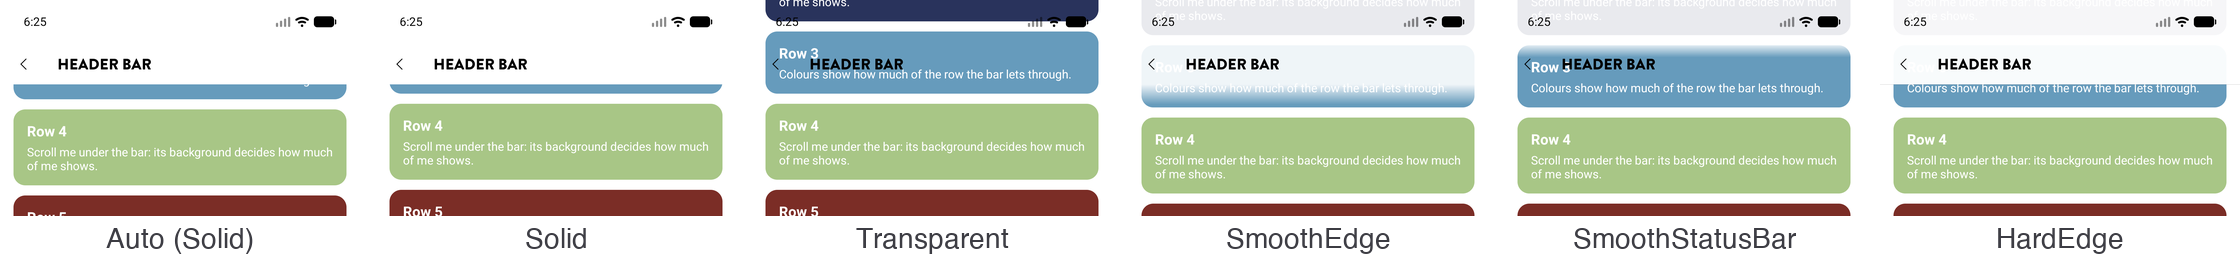
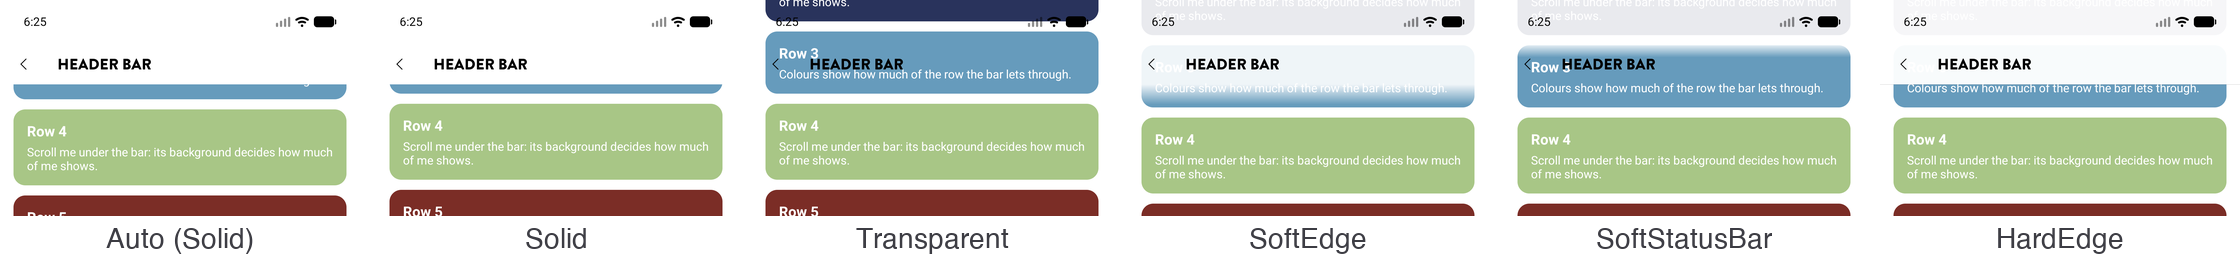
Header bar: SmoothEdge and SmoothStatusBar are SoftEdge and SoftStatusBar

Changed region(s): [[0.6875, 0.8485, 0.8125, 0.9394], [0.5312, 0.8485, 0.625, 0.9697]]

diff --git a/samples/MauiSpineSampleApp/Pages/HeaderBar/HeaderBarPage.ViewModel.cs b/samples/MauiSpineSampleApp/Pages/HeaderBar/HeaderBarPage.ViewModel.cs
@@ -35,11 +35,11 @@ public partial class HeaderBarPageViewModel : ViewModelBase
 
         _background = new("Background",
         [
-            new("Auto", "What the platform's own bar does: on iOS the navigation bar's default when a list fills the page (Smooth on iOS 26, Hard from iOS 27), Transparent under Overlay, Solid otherwise. The default; pick another value only to get a look on purpose.", () => HeaderBarBackground = HeaderBarBackground.Auto),
+            new("Auto", "What the platform's own bar does: on iOS the navigation bar's default when a list fills the page (Soft on iOS 26, Hard from iOS 27), Transparent under Overlay, Solid otherwise. The default; pick another value only to get a look on purpose.", () => HeaderBarBackground = HeaderBarBackground.Auto),
             new("Solid", "The page's colour: content under the bar is hidden. A classic bar, or a photo that gives way to a plain bar once it scrolls.", () => HeaderBarBackground = HeaderBarBackground.Solid),
             new("Transparent", "Nothing: content shows through the bar, and the title floats over it. A photo or a map under an Overlay bar.", () => HeaderBarBackground = HeaderBarBackground.Transparent),
-            new("Smooth", "SmoothEdge: content fades and blurs into the whole header, the navigation bar's default on iOS 26. A fading band on Android and Windows.", () => HeaderBarBackground = HeaderBarBackground.SmoothEdge),
-            new("Status bar", "SmoothStatusBar: the same soft fade behind the status bar only; rows stay sharp behind the title and the actions. For a bar that should stay light.", () => HeaderBarBackground = HeaderBarBackground.SmoothStatusBar),
+            new("Soft", "SoftEdge: content fades and blurs into the whole header, the navigation bar's default on iOS 26. A fading band on Android and Windows.", () => HeaderBarBackground = HeaderBarBackground.SoftEdge),
+            new("Status bar", "SoftStatusBar: the same soft fade behind the status bar only; rows stay sharp behind the title and the actions. For a bar that should stay light.", () => HeaderBarBackground = HeaderBarBackground.SoftStatusBar),
             new("Hard", "HardEdge: a frosted, nearly opaque band with a clear bottom edge, the navigation bar's default from iOS 27. A nearly opaque band with a hairline on Android and Windows.", () => HeaderBarBackground = HeaderBarBackground.HardEdge),
         ]);
 

diff --git a/src/Plugin.Maui.Spine/Core/HeaderBarMode.cs b/src/Plugin.Maui.Spine/Core/HeaderBarMode.cs
@@ -32,7 +32,7 @@ public enum HeaderBarBackground
 {
     /// <summary>
     /// What the platform's own bar does. On iOS and Mac Catalyst that is the navigation bar's default:
-    /// <see cref="SmoothEdge"/> on 26 and <see cref="HardEdge"/> from 27, for a region or tab page
+    /// <see cref="SoftEdge"/> on 26 and <see cref="HardEdge"/> from 27, for a region or tab page
     /// whose scroll view fills it from the top (a page with fixed content above its list gets
     /// <see cref="Solid"/>, so that content never sits under the bar). Everywhere else it is
     /// <see cref="Solid"/>. Under <see cref="HeaderBarMode.Overlay"/> it is
@@ -60,14 +60,14 @@ public enum HeaderBarBackground
     /// and Windows show a band in the page's colour, slightly see-through behind the bar and fading
     /// out below it. iOS and Mac Catalyst before 26, and Reduce Transparency, give <see cref="Solid"/>.
     /// </summary>
-    SmoothEdge,
+    SoftEdge,
 
     /// <summary>
-    /// <see cref="SmoothEdge"/> behind the status bar only: content fades out under the clock and the
+    /// <see cref="SoftEdge"/> behind the status bar only: content fades out under the clock and the
     /// icons, and stays sharp behind the title and the actions. Android and Windows show the band
     /// behind the status bar only.
     /// </summary>
-    SmoothStatusBar,
+    SoftStatusBar,
 
     /// <summary>
     /// UIKit's scroll edge effect with the hard style: a frosted, nearly opaque band that ends in a
@@ -81,7 +81,7 @@ internal static class HeaderBarBackgroundExtensions
 {
     /// <summary>Whether <paramref name="background"/> is one of the scroll edge values.</summary>
     public static bool IsScrollEdge(this HeaderBarBackground background) =>
-        background is HeaderBarBackground.SmoothEdge or HeaderBarBackground.SmoothStatusBar or HeaderBarBackground.HardEdge;
+        background is HeaderBarBackground.SoftEdge or HeaderBarBackground.SoftStatusBar or HeaderBarBackground.HardEdge;
 }
 
 /// <summary>The colour of the status bar's clock and icons while a page is shown.</summary>

diff --git a/src/Plugin.Maui.Spine/Presentation/PagePresenter.Apple.cs b/src/Plugin.Maui.Spine/Presentation/PagePresenter.Apple.cs
@@ -13,7 +13,7 @@ internal sealed partial class PagePresenter
     private View? _edgeSource;
     private UIScrollView? _edgeScrollView;
 
-    // The container a SmoothStatusBar effect is sized to: as tall as the status bar, holding a label,
+    // The container a SoftStatusBar effect is sized to: as tall as the status bar, holding a label,
     // because UIKit ignores a container with no labels, images or controls in it.
     private ContentView? _statusBarEdge;
 
@@ -35,13 +35,13 @@ internal sealed partial class PagePresenter
         if (_statusBarEdge is null)
             return;
 
-        _statusBarEdge.IsVisible = BarBackground is HeaderBarBackground.SmoothStatusBar && UsesSystemScrollEdge;
+        _statusBarEdge.IsVisible = BarBackground is HeaderBarBackground.SoftStatusBar && UsesSystemScrollEdge;
         _statusBarEdge.HeightRequest = _page?.SystemBarInsets.Top ?? 0;
     }
 
     /// <summary>The view the interaction goes on: the status-bar element, or the title row.</summary>
     private View EdgeContainerView =>
-        BarBackground is HeaderBarBackground.SmoothStatusBar && _statusBarEdge is not null ? _statusBarEdge : _titleBar;
+        BarBackground is HeaderBarBackground.SoftStatusBar && _statusBarEdge is not null ? _statusBarEdge : _titleBar;
 
     /// <summary>
     /// Tells the page's scroll view that the title row floats over its top edge, so UIKit draws

diff --git a/src/Plugin.Maui.Spine/Presentation/PagePresenter.cs b/src/Plugin.Maui.Spine/Presentation/PagePresenter.cs
@@ -232,7 +232,7 @@ internal sealed partial class PagePresenter : Grid
     /// <summary>Installs or removes UIKit's scroll edge effect for the page; iOS and Mac Catalyst 26 only.</summary>
     partial void UpdateSystemScrollEdge();
 
-    /// <summary>Adds the element a <see cref="HeaderBarBackground.SmoothStatusBar"/> effect is sized to; Apple platforms only.</summary>
+    /// <summary>Adds the element a <see cref="HeaderBarBackground.SoftStatusBar"/> effect is sized to; Apple platforms only.</summary>
     partial void AddStatusBarEdge();
 
     /// <summary>Shows that element, as tall as the status bar, while the page asks for it.</summary>
@@ -324,7 +324,7 @@ internal sealed partial class PagePresenter : Grid
                 ],
                 new Point(0, 0), new Point(0, 1));
         }
-        else if (BarBackground is HeaderBarBackground.SmoothStatusBar)
+        else if (BarBackground is HeaderBarBackground.SoftStatusBar)
         {
             // The soft stand-in behind the status bar only, fading out before the title row.
             var statusBar = _page?.SystemBarInsets.Top ?? 0;

diff --git a/src/Plugin.Maui.Spine/Extensions/HeaderBar.cs b/src/Plugin.Maui.Spine/Extensions/HeaderBar.cs
@@ -7,7 +7,7 @@ namespace Plugin.Maui.Spine.Extensions;
 /// <summary>
 /// Attached properties, set on the page, for a header that follows the page's scroll: a large title
 /// (<see cref="NavigableAttribute.LargeTitle"/>), or content scrolling under the bar with a
-/// <see cref="HeaderBarBackground.Transparent"/> or <see cref="HeaderBarBackground.SmoothEdge"/> background. Which view it follows, and how far that view scrolls
+/// <see cref="HeaderBarBackground.Transparent"/> or <see cref="HeaderBarBackground.SoftEdge"/> background. Which view it follows, and how far that view scrolls
 /// before a large title has collapsed.
 /// </summary>
 /// <example>

diff --git a/src/Plugin.Maui.Spine/Services/NavigableMeta.cs b/src/Plugin.Maui.Spine/Services/NavigableMeta.cs
@@ -132,7 +132,7 @@ internal static class NavigableMeta
     static HeaderBarBackground NavigationBarEdge =>
         OperatingSystem.IsIOSVersionAtLeast(27) || OperatingSystem.IsMacCatalystVersionAtLeast(27)
             ? HeaderBarBackground.HardEdge
-            : HeaderBarBackground.SmoothEdge;
+            : HeaderBarBackground.SoftEdge;
 
     static bool IsApple => OperatingSystem.IsIOS() || OperatingSystem.IsMacCatalyst();
 

diff --git a/docs/wiki/regions.md b/docs/wiki/regions.md
@@ -36,7 +36,7 @@ public partial class SettingsPage { public SettingsPage() => InitializeComponent
 | `SafeAreaEdges` | `SafeAreaEdges` | `All` | Which edges Spine pads for system bars. Exclude an edge to render edge-to-edge behind it — use `ViewModelBase.SafeAreaInsets` to offset content manually |
 | `HeaderBar` | `HeaderBarMode` | `Normal` | Where the content starts: below the bar (`Normal`) or at the top of the screen behind it (`Overlay`). See [Header bar](#header-bar) |
 | `LargeTitle` | `bool` | `false` | The page opens on its own large title, which collapses into the header bar as it scrolls. See [Large title](#large-title) |
-| `HeaderBarBackground` | `HeaderBarBackground` | `Auto` | What is behind the header bar when content is under it: `Auto`, `Solid`, `Transparent`, `SmoothEdge`, `SmoothStatusBar` or `HardEdge`. See [Backgrounds](#backgrounds) |
+| `HeaderBarBackground` | `HeaderBarBackground` | `Auto` | What is behind the header bar when content is under it: `Auto`, `Solid`, `Transparent`, `SoftEdge`, `SoftStatusBar` or `HardEdge`. See [Backgrounds](#backgrounds) |
 | `HeaderBarForeground` | `string?` | `null` | A fixed colour (hex) for the header bar's title and action icons; `null` follows the theme |
 | `StatusBarStyle` | `StatusBarStyle` | `Default` | `LightContent` or `DarkContent` for the status bar's clock and icons while the page is shown |
 | `ScrollInset` | `SafeAreaEdges` | `None` | Edges on which the page's first `ScrollView` / `CollectionView` takes the safe-area inset as a native content inset, so it can scroll under an excluded bar and still reach its last row. See [Scrolling under a bar](#scrolling-under-a-bar) |
@@ -168,7 +168,7 @@ Three settings shape the header bar. Each is on the page attribute, is an app-wi
 |---|---|
 | `HeaderBar` (`Normal`, `Overlay`) | Where the content starts: below the bar, or at the top of the screen behind it |
 | `LargeTitle` | Whether the page opens on a large title that collapses into the bar |
-| `HeaderBarBackground` (`Auto`, `Solid`, `Transparent`, `SmoothEdge`, `SmoothStatusBar`, `HardEdge`) | What is behind the bar's title and actions when content is under the bar |
+| `HeaderBarBackground` (`Auto`, `Solid`, `Transparent`, `SoftEdge`, `SoftStatusBar`, `HardEdge`) | What is behind the bar's title and actions when content is under the bar |
 
 `HeaderBarForeground` (a fixed colour for the title and the action icons) and `StatusBarStyle` (the clock's colour) go with a page whose top is a photo. The sample's **Header bar** page combines all of them live, explains each choice and shows the code for the combination on screen.
 
@@ -178,11 +178,11 @@ The background only shows when content is under the bar: content that has scroll
 
 | Value | iOS / Mac Catalyst 26 | iOS / Mac Catalyst before 26 | Android | Windows | Pick it for |
 |---|---|---|---|---|---|
-| `Auto` (default) | The navigation bar's default, on a region or tab page whose list fills it from the top: `SmoothEdge` on iOS 26, `HardEdge` from iOS 27; `Solid` otherwise | `Solid` | `Solid` | `Solid` | Almost every page: the platform's own bar |
+| `Auto` (default) | The navigation bar's default, on a region or tab page whose list fills it from the top: `SoftEdge` on iOS 26, `HardEdge` from iOS 27; `Solid` otherwise | `Solid` | `Solid` | `Solid` | Almost every page: the platform's own bar |
 | `Solid` | The page's colour; content under the bar is hidden | Same | Same | Same | A classic bar; a photo page whose bar closes once the list scrolls |
 | `Transparent` | Nothing; content shows through, the title floats over it | Same | Same | Same | A photo or a map under an `Overlay` bar |
-| `SmoothEdge` | UIKit's scroll edge effect, soft style: content fades and blurs into the whole header | `Solid` | The page's colour, slightly see-through behind the bar, fading out below it | As Android | The iOS 26 navigation bar look, on every version |
-| `SmoothStatusBar` | The soft effect behind the status bar only; content behind the title and the actions stays sharp | `Solid` | The same band behind the status bar only, fading out over 16 points | As Android | A light bar, where rows should stay readable behind the title |
+| `SoftEdge` | UIKit's scroll edge effect, soft style: content fades and blurs into the whole header | `Solid` | The page's colour, slightly see-through behind the bar, fading out below it | As Android | The iOS 26 navigation bar look, on every version |
+| `SoftStatusBar` | The soft effect behind the status bar only; content behind the title and the actions stays sharp | `Solid` | The same band behind the status bar only, fading out over 16 points | As Android | A light bar, where rows should stay readable behind the title |
 | `HardEdge` | The hard style: a frosted, nearly opaque band with a clear edge | `Solid` | The page's colour, nearly opaque, with a hairline at the bar's bottom edge | As Android | The iOS 27 navigation bar look, on every version and platform |
 
 Under `Overlay`, `Auto` is `Transparent`, since the page draws its own top. With Reduce Transparency on (iOS/Mac), or transparency effects off (Windows), every scroll edge value is `Solid`. `ViewModelBase.EffectiveHeaderBarBackground` says what the page got: what `Auto` resolved to, and `Solid` where a scroll edge value could not be drawn.
@@ -200,8 +200,8 @@ Under `Overlay`, `Auto` is `Transparent`, since the page draws its own top. With
 
 - **`Solid` under `Normal`** gives the bar a row of its own; the content starts and stays below it. Under `Overlay` or a large title, where content starts under the bar, the colour fades in over the first `HeaderBarConstants.ScrollEdgeFadeLength` points of scroll. The colour is the page's own background when it has an opaque one, otherwise what the platform paints behind pages (the system background on iOS, the window background on Android).
 - **`Transparent` and the scroll edge values under `Normal`** lay the page out under the bar, and Spine adds `Top` to the scroll source's `SafeArea.ScrollInset`, so the first row starts below the bar at rest and scrolls under it.
-- **`Auto` follows the navigation bar's default:** `SmoothEdge` on iOS 26, `HardEdge` from iOS 27. Spine pins the style per version rather than leaving it to UIKit's automatic style, which is soft on iOS 26.4 and hard on iOS 27.0.
-- **`SmoothStatusBar`** puts UIKit's interaction on a view of its own, as tall as the status bar, holding a label: UIKit sizes the effect to the labels, images and controls in the container and ignores an empty one.
+- **`Auto` follows the navigation bar's default:** `SoftEdge` on iOS 26, `HardEdge` from iOS 27. Spine pins the style per version rather than leaving it to UIKit's automatic style, which is soft on iOS 26.4 and hard on iOS 27.0.
+- **`SoftStatusBar`** puts UIKit's interaction on a view of its own, as tall as the status bar, holding a label: UIKit sizes the effect to the labels, images and controls in the container and ignores an empty one.
 - **Before `Auto` on iOS 26 or later picks a scroll edge value,** the page's scroll view (`HeaderBar.ScrollSource`, or else the first `ScrollView` / `CollectionView`) must fill the page from the top: every container between the page and the list holds only the list, or is a grid in which the list spans all rows (a list with a floating button). A page with fixed content above its list keeps `Solid`, so nothing that does not scroll ends up under the bar. Sheets keep `Solid`.
 
 ### Overlay header
@@ -225,7 +225,7 @@ A page that opens on a photo, a map or a hero wants the content to start at the 
 - The page keeps clear what it wants to. `ViewModelBase.SafeAreaInsets.Top` reports status bar plus header height (`HeaderBarConstants.BarHeight`); a list takes it with `SafeArea.ScrollInset="Top"` to start below the bar, or leaves it off to start its first item (a photo) under the bar. Spine does not add a top inset under `Overlay`.
 - `HeaderBarForeground`: the title and the action icons take this colour instead of the theme's. It stays fixed on a `Solid` or scroll edge bar too, where white disappears in light mode; `Transparent` is the background that goes with it.
 - `StatusBarStyle`: applied when the page appears, when the page changes it, and on a theme change. On Android it sets the window's light/dark status bar appearance. On iOS it needs `<key>UIViewControllerBasedStatusBarAppearance</key><false/>` in `Info.plist`; without it Spine logs a hint and leaves the bar alone.
-- On iOS 26, `SmoothEdge` over a photo already softens the photo's top at rest, as UIKit does for anything under the edge. Use `Transparent` or `Solid` for a photo page.
+- On iOS 26, `SoftEdge` over a photo already softens the photo's top at rest, as UIKit does for anything under the edge. Use `Transparent` or `Solid` for a photo page.
 
 ### Large title
 
@@ -256,7 +256,7 @@ The iOS large title and the Material 3 medium top app bar: the page opens on its
 
 ### Scroll edge
 
-How the iOS 26 effect is drawn. On a page that gets `SmoothEdge` or `HardEdge`, the header's title row gets a `UIScrollEdgeElementContainerInteraction` pointing at the scroll view, and UIKit draws the edge effect as it does behind a `UINavigationBar`: from the top of the screen over the status bar and the whole bar. The glass page actions stay as they are.
+How the iOS 26 effect is drawn. On a page that gets `SoftEdge` or `HardEdge`, the header's title row gets a `UIScrollEdgeElementContainerInteraction` pointing at the scroll view, and UIKit draws the edge effect as it does behind a `UINavigationBar`: from the top of the screen over the status bar and the whole bar. The glass page actions stay as they are.
 
 - UIKit sizes the effect to the elements in the container view (labels, images, controls), not to the container itself: an empty view in the container does not count, and the effect stops below the lowest element. That is why the title label fills the bar's height. A page with a visible header bar but an empty title has nothing for UIKit to size the effect to.
 - Under an inline title with `HardEdge` the label ends with the 44-point item row instead, because that is where UIKit's own hard band stops behind an inline navigation bar title (see [Header bar height](#header-bar-height)).

diff --git a/.claude/skills/spine-page/SKILL.md b/.claude/skills/spine-page/SKILL.md
@@ -71,7 +71,7 @@ Naming: `XxxPage` / `XxxPageViewModel` / `XxxPage.View.xaml`; a subfolder gets i
 | `[NavigableSheet(Title = …, AllowedDetents = […])]` | Bottom sheet over the current page, with its own stack | `NavigateToAsync<TPage>()` — the attribute decides |
 | `[NavigableTab(Title = …, Icon = "tab_home.svg", Order = 0)]` | A region that roots a bottom tab in the native tab bar | `NavigateToAsync<TPage>()` switches to the tab; `SwitchToTabAsync<TPage>()` says so explicitly |
 
-Useful attribute properties, all optional: `Lifetime` (`Transient` default; `Singleton` keeps state — tabs default to `Singleton`), `IsHeaderBarVisible`, `IsBackButtonVisible`, `TitleAlignment`, `SafeAreaEdges` (exclude an edge to draw behind it, then offset with `ViewModelBase.SafeAreaInsets`), `ScrollInset` (edges on which the page's first `ScrollView`/`CollectionView` takes that inset as a native content inset, so a list can scroll under a bar and still reach its last row; the same thing per view is `SafeArea.ScrollInset="Bottom"`). The header bar has three independent settings, each on the attribute, as an app-wide default in `options.RegionDefaults`/`TabDefaults`/`SheetDefaults`, and settable on the view model while the page is shown (Spine re-resolves and re-lays out): **layout** `HeaderBar` (`Normal`: content starts below the bar; `Overlay`: content starts at the top of the screen behind the bar, and the page keeps clear what it wants with `SafeAreaInsets.Top` / `SafeArea.ScrollInset="Top"` — Spine adds no top inset there), **`LargeTitle`** and **background** `HeaderBarBackground`, which only shows when content is under the bar: `Auto` (default; the platform's bar — on iOS the navigation bar's default, `SmoothEdge` on 26 and `HardEdge` from 27, for a region/tab page whose `ScrollView`/`CollectionView` fills it from the top, `Transparent` under `Overlay`, `Solid` otherwise), `Solid` (the page's colour hides content under the bar; under `Normal` the bar has its own row), `Transparent` (content shows through, the title floats over it — for a photo or map under `Overlay`), `SmoothEdge` (iOS 26+ soft scroll edge over the whole header; a fading band on Android/Windows; `Solid` before iOS 26), `SmoothStatusBar` (the soft effect behind the status bar only, rows stay sharp behind the title; a status-bar band on Android/Windows) and `HardEdge` (frosted, nearly opaque band, the iOS 27 default; Android/Windows: nearly opaque with a hairline). Reduce Transparency turns the scroll edge values into `Solid`; `ViewModelBase.EffectiveHeaderBarBackground` tells what the page got. Under `Normal`, a large title, `Transparent` or a scroll edge value lays the page out under the bar and Spine adds `Top` to the scroll source's `SafeArea.ScrollInset`, so the first row starts below the bar. For a page on a photo or hero: `HeaderBar = HeaderBarMode.Overlay`, `HeaderBarBackground = Transparent` (or `Solid` to close the bar once the list scrolls), `HeaderBarForeground = "#FFFFFF"` (title and icons in a fixed colour; it stays fixed on a solid bar) and `StatusBarStyle = StatusBarStyle.LightContent` (iOS needs `UIViewControllerBasedStatusBarAppearance` false in Info.plist). For an iOS-style large title: `LargeTitle = true`, put `<HeaderBarLargeTitle />` first in the page's `ScrollView`/`CollectionView` (e.g. `CollectionView.Header`) — it shows the page title in the platform's large-title size and is what Spine measures (custom titles: `HeaderBarConstants.LargeTitle…` plus `HeaderBar.CollapseDistance`; the whole bar's height is `HeaderBarConstants.BarHeight`, 54 on iOS 26 with the 44-point `Height` item row at its top); Spine fades the bar's title in as the label scrolls under the bar and publishes `ViewModelBase.HeaderBarCollapseProgress`. `HeaderBar.ScrollSource="{x:Reference List}"` on the page picks the scroll view (default: the first). The sample's Header bar page combines every setting live.
+Useful attribute properties, all optional: `Lifetime` (`Transient` default; `Singleton` keeps state — tabs default to `Singleton`), `IsHeaderBarVisible`, `IsBackButtonVisible`, `TitleAlignment`, `SafeAreaEdges` (exclude an edge to draw behind it, then offset with `ViewModelBase.SafeAreaInsets`), `ScrollInset` (edges on which the page's first `ScrollView`/`CollectionView` takes that inset as a native content inset, so a list can scroll under a bar and still reach its last row; the same thing per view is `SafeArea.ScrollInset="Bottom"`). The header bar has three independent settings, each on the attribute, as an app-wide default in `options.RegionDefaults`/`TabDefaults`/`SheetDefaults`, and settable on the view model while the page is shown (Spine re-resolves and re-lays out): **layout** `HeaderBar` (`Normal`: content starts below the bar; `Overlay`: content starts at the top of the screen behind the bar, and the page keeps clear what it wants with `SafeAreaInsets.Top` / `SafeArea.ScrollInset="Top"` — Spine adds no top inset there), **`LargeTitle`** and **background** `HeaderBarBackground`, which only shows when content is under the bar: `Auto` (default; the platform's bar — on iOS the navigation bar's default, `SoftEdge` on 26 and `HardEdge` from 27, for a region/tab page whose `ScrollView`/`CollectionView` fills it from the top, `Transparent` under `Overlay`, `Solid` otherwise), `Solid` (the page's colour hides content under the bar; under `Normal` the bar has its own row), `Transparent` (content shows through, the title floats over it — for a photo or map under `Overlay`), `SoftEdge` (iOS 26+ soft scroll edge over the whole header; a fading band on Android/Windows; `Solid` before iOS 26), `SoftStatusBar` (the soft effect behind the status bar only, rows stay sharp behind the title; a status-bar band on Android/Windows) and `HardEdge` (frosted, nearly opaque band, the iOS 27 default; Android/Windows: nearly opaque with a hairline). Reduce Transparency turns the scroll edge values into `Solid`; `ViewModelBase.EffectiveHeaderBarBackground` tells what the page got. Under `Normal`, a large title, `Transparent` or a scroll edge value lays the page out under the bar and Spine adds `Top` to the scroll source's `SafeArea.ScrollInset`, so the first row starts below the bar. For a page on a photo or hero: `HeaderBar = HeaderBarMode.Overlay`, `HeaderBarBackground = Transparent` (or `Solid` to close the bar once the list scrolls), `HeaderBarForeground = "#FFFFFF"` (title and icons in a fixed colour; it stays fixed on a solid bar) and `StatusBarStyle = StatusBarStyle.LightContent` (iOS needs `UIViewControllerBasedStatusBarAppearance` false in Info.plist). For an iOS-style large title: `LargeTitle = true`, put `<HeaderBarLargeTitle />` first in the page's `ScrollView`/`CollectionView` (e.g. `CollectionView.Header`) — it shows the page title in the platform's large-title size and is what Spine measures (custom titles: `HeaderBarConstants.LargeTitle…` plus `HeaderBar.CollapseDistance`; the whole bar's height is `HeaderBarConstants.BarHeight`, 54 on iOS 26 with the 44-point `Height` item row at its top); Spine fades the bar's title in as the label scrolls under the bar and publishes `ViewModelBase.HeaderBarCollapseProgress`. `HeaderBar.ScrollSource="{x:Reference List}"` on the page picks the scroll view (default: the first). The sample's Header bar page combines every setting live.
 
 Sheets: `AllowedDetents = [SheetDetent.Compact | Medium | Expanded | FullScreen, "75%", "300px"]`, `InitialDetent`, `BackgroundPageOverlay = None | Dimmed | Blurred`. Override `OnCloseRequestedAsync` to guard dismissal; `OnDismissedAsync` runs when the user closes it without a result.
 

diff --git a/issues/389-soft-edge-names.md b/issues/389-soft-edge-names.md
@@ -1,0 +1,21 @@
+# Issue #389 — Header bar: rename SmoothEdge and SmoothStatusBar to SoftEdge and SoftStatusBar
+
+**GitHub:** https://github.com/jonatansoderberg/Maui.Spine/issues/389
+**Branch:** issue/389-soft-edge-names
+**Status:** Completed
+**Related:** #387 (PR #388)
+
+## Plan
+
+Rename `SmoothEdge` to `SoftEdge` and `SmoothStatusBar` to `SoftStatusBar`, at Jonatan's request.
+
+## Changes
+
+- `HeaderBarBackground.SoftEdge` and `HeaderBarBackground.SoftStatusBar`, with every reference to them in `PagePresenter`, `NavigableMeta` and `HeaderBar`.
+- Sample Header bar page: the chip is now "Soft".
+- `regions.md`, including the relabelled screenshot strips, and the `/spine-page` skill.
+
+## Decisions
+
+- **"Soft"** is UIKit's own name for the style (`UIScrollEdgeEffectStyle.Soft`) and pairs with `HardEdge`.
+- **No `[Obsolete]` aliases:** the values have not been released.
